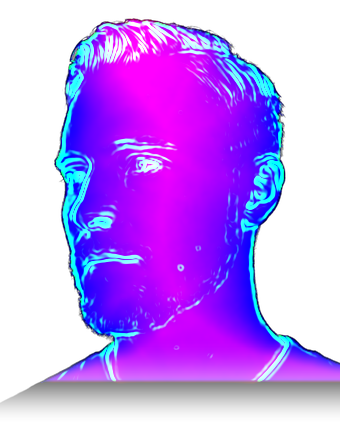
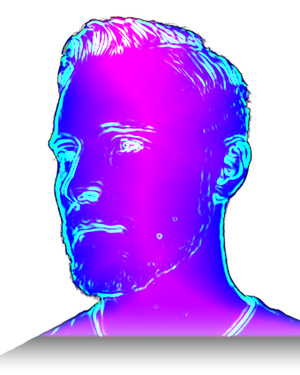
deploy: portfolio 2026 update
- Refined depth hero with improved point cloud
- Updated portrait depth map
- Polish pass on main page and Swedish page
- Updated build tooling and sitemap

diff --git a/index.html b/index.html
@@ -33,16 +33,8 @@
   document.documentElement.classList.remove('no-js');
   document.documentElement.classList.add('js');
 </script>
-<script type="application/ld+json">
-{
-  "@context":"https://schema.org",
-  "@graph":[
-    {"@type":"ProfilePage","@id":"https://antonsmedberg.github.io/#profile","url":"https://antonsmedberg.github.io/","name":"Anton Smedberg — iOS Developer","dateModified":"2026-08-20","mainEntity":{"@id":"https://antonsmedberg.github.io/#anton"}},
-    {"@type":"Person","@id":"https://antonsmedberg.github.io/#anton","name":"Anton Smedberg","givenName":"Anton","familyName":"Smedberg","jobTitle":"iOS Developer","url":"https://antonsmedberg.github.io/","email":"mailto:anton@smedberg.eu","image":"https://antonsmedberg.github.io/assets/img/portrait.png","address":{"@type":"PostalAddress","addressLocality":"Malmö","addressRegion":"Skåne","addressCountry":"SE"},"sameAs":["https://github.com/antonsmedberg","https://www.linkedin.com/in/anton-smedberg-a9aa6121b/"],"knowsLanguage":["Swedish","English"],"knowsAbout":["iOS development","Swift","SwiftUI","Swift Concurrency","UIKit","AVFoundation","Metal","ARKit","SwiftData","Swift Package Manager","XCTest","CI/CD","GitHub Actions","Datadog","OpenTelemetry"]}
-  ]
-}
-</script>
 <script type="module" src="/assets/js/main.js"></script>
+<script type="application/ld+json">{"@context":"https://schema.org","@type":"Person","name":"Anton Smedberg","jobTitle":"iOS Developer","url":"https://antonsmedberg.github.io/","image":"https://antonsmedberg.github.io/assets/img/og-image.png","sameAs":["https://github.com/antonsmedberg","https://www.linkedin.com/in/anton-smedberg-a9aa6121b/"],"address":{"@type":"PostalAddress","addressLocality":"Malmö","addressCountry":"SE"},"knowsLanguage":["sv","en"],"knowsAbout":["Swift","SwiftUI","Swift Concurrency","AVFoundation","Metal","ARKit","iOS development"],"alumniOf":{"@type":"EducationalOrganization","name":"Grit Academy"},"seeks":{"@type":"Demand","name":"iOS / mobile developer role"}}</script>
 </head>
 <body>
 <a class="skip-link" href="#main">Skip to content</a>

diff --git a/sv/index.html b/sv/index.html
@@ -21,6 +21,7 @@
   document.documentElement.classList.add('js');
 </script>
 <script type="module" src="/assets/js/main.js"></script>
+<script type="application/ld+json">{"@context":"https://schema.org","@type":"Person","name":"Anton Smedberg","jobTitle":"iOS Developer","url":"https://antonsmedberg.github.io/sv/","image":"https://antonsmedberg.github.io/assets/img/og-image.png","sameAs":["https://github.com/antonsmedberg","https://www.linkedin.com/in/anton-smedberg-a9aa6121b/"],"address":{"@type":"PostalAddress","addressLocality":"Malmö","addressCountry":"SE"},"knowsLanguage":["sv","en"],"knowsAbout":["Swift","SwiftUI","Swift Concurrency","AVFoundation","Metal","ARKit","iOS development"],"alumniOf":{"@type":"EducationalOrganization","name":"Grit Academy"},"seeks":{"@type":"Demand","name":"iOS / mobile developer role"}}</script>
 </head>
 <body>
 <a class="skip-link" href="#main">Hoppa till innehåll</a>

diff --git a/assets/js/depth-hero.js b/assets/js/depth-hero.js
@@ -281,7 +281,6 @@ function start() {
   gl.uniform1i(u('uDepth'), 0);
   gl.uniform1i(u('uPhoto'), 1);
 
-  // The portrait is already in cache from the <img>, so this costs no request.
   const photo = gl.createTexture();
   gl.activeTexture(gl.TEXTURE1);
   gl.bindTexture(gl.TEXTURE_2D, photo);
@@ -299,7 +298,11 @@ function start() {
     gl.texImage2D(gl.TEXTURE_2D, 0, gl.RGBA, gl.RGBA, gl.UNSIGNED_BYTE, photoImg);
     request();
   };
-  photoImg.src = '/assets/img/portrait.png';
+  // Match the <picture> media query exactly so this reuses the file the
+  // browser has already downloaded rather than pulling the 412 KB PNG.
+  photoImg.src = matchMedia('(max-width: 640px)').matches
+    ? '/assets/img/portrait@2x-small.webp'
+    : '/assets/img/portrait.webp';
   gl.activeTexture(gl.TEXTURE0);
 
   let onscreen = true;

diff --git a/tools/build-assets.py b/tools/build-assets.py
@@ -108,7 +108,7 @@ def build_portrait():
               + (" / portrait.png (560w fallback)" if suffix == "" else ""))
 
 
-def build_depth_map(portrait_rgba, out_path, width=340):
+def build_depth_map(portrait_rgba, out_path, width=300):
     """Bake a depth map for the point cloud.
 
     Luminance alone is not depth: dark hair is not far away and a bright collar

diff --git a/README.md b/README.md
@@ -1,151 +1,49 @@
 # antonsmedberg.github.io
 
-Portfolio and CV for **Anton Smedberg** — iOS developer, Malmö, Sweden.
-
-Static site. No framework, no build step, no third-party CDN. All content is in
-the HTML, so search engines, LinkedIn's link preview and anyone with JavaScript
-disabled see the full page.
-
-Live: <https://antonsmedberg.github.io/>
-
----
-
-## Design language — "instrument"
-
-Light, precise, high-contrast. The surface behaves like technical
-documentation: white panels, single-pixel rules, generous measure, and **one
-accent** (`--accent: #2f4bd8`) used for everything interactive and nothing else.
-
-The multi-hue depth ramp is deliberately confined to the one place it carries
-meaning — the depth reconstruction in the hero — so the interface around it
-stays quiet. On a light ground the ramp inverts: **contrast is the depth cue**,
-so far points sit pale (`#8c9cb2`) and near points sit ink (`#0c1426`), with a
-hue journey through indigo alongside.
-
-To change the whole look, edit the `:root` block at the top of
-`assets/css/style.css`. Nothing else hardcodes a colour.
-
-**Type:** Schibsted Grotesk (variable) carries both display and text — a Nordic
-grotesk with real character at headline sizes and a workable text cut, which
-keeps the family count to two. IBM Plex Mono handles data, labels and
-measurements. Self-hosted from `assets/fonts/`, 76 KB total, no request to
-Google and no GDPR question about hotlinking fonts from an EU site.
-
-## The hero — a LiDAR line scan
-
-One graphic does two jobs. Evenly spaced horizontal lines run across the frame.
-Where they cross the figure they bend upward in proportion to depth and describe
-the face; where they do not, they are perfectly straight and run to the edge.
-The same system that draws the portrait **is** the background, so nothing has to
-be blended into anything else — there is only one thing there.
-
-That is also literally what a depth sensor does: sweep a line across a surface
-and record where it bends.
-
-### Why this and not the earlier attempts
-
-- **A point cloud** rendered depth as thousands of discrete samples. However
-  carefully density, size and alpha were tuned, that reads as noise — because it
-  *is* noise, sampled off a surface.
-- **Iso-depth contours** were smooth, but they sat as a separate object on top
-  of a separate grid, and the grid read as graph paper.
-
-The line scan removes the grid entirely, because the flat parts of the lines are
-the background.
-
-### Occlusion is what makes it read as solid
-
-Each line carries a fill in the page colour running to the bottom of the frame,
-and lines are drawn far-to-near — top row first. Nearer ridges therefore hide
-the tails of the ones behind them. Without that step the same paths read as a
-wire mesh rather than a form.
-
-Two consequences worth knowing:
-
-- The fills are the page colour, so they are invisible against the background
-  **but they still cover anything underneath them.** `.identity-scene` carries
-  `overflow: hidden` so the scan can never reach the headline column. Removing
-  that clip greys out the hero copy.
-- If you change `--bg`, change `--scan-fill` with it.
-
-### The field
-
-`tools/build-assets.py` weights the height field toward **shading detail**, not
-silhouette volume. With the volume term dominant, the relief comes out as a
-smooth hill; the brow, nose and jaw only appear when the detail band leads. The
-depth map used elsewhere (`portrait-depth.png`) is weighted the other way, which
-is why two weightings exist.
-
-The field is then feathered to zero across the silhouette, so lines rejoin the
-flat background without a step.
-
-### Depth ordering
-
-| Layer                     | `--depth` | What it is                     |
-|---------------------------|-----------|--------------------------------|
-| `.identity-bg`            | −6        | ambient colour, mixed in oklch |
-| `.identity-scan`          | −2        | the line scan                  |
-| `.identity-portrait-wrap` | +3        | the photograph                 |
-
-`main.js` writes `--px` / `--py` (pointer) and `--sy` (scroll) onto the stage;
-each layer multiplies those by its own depth. The scan and the photograph
-separating under the pointer is where the 2.5D comes from — no canvas, no
-per-frame work, 61 fps.
-
-## Other things that carry information
-
-- **The hairline under the header** is a reading-progress meter, not decoration.
-- **Toolkit glyphs** are custom, drawn on one 24px grid with a 1.4 stroke and
-  square joints, rather than a borrowed icon set.
-- **Shape carries meaning.** Every data chip — `.tech`, `.skill-pill`,
-  `.status`, `.identity-chip` — shares a 7px radius. The pill shape is reserved
-  for `.hero__eyebrow`, the one element reporting live state.
-- **Link marks match their destination.** External links carry the out-arrow
-  and it travels up and right on hover; internal links carry a plain arrow that
-  travels sideways.
-- **Every raised surface has a one-pixel light edge** along its top. At this
-  contrast level that is what separates a panel from a rectangle.
-- **The nav pill** slides and resizes between items; `main.js` writes `--x` and
-  `--w` and the element does the rest.
-- **The first project card** spans the full grid because MetalVisualKit is the
-  one fully public, installable artefact. The hierarchy encodes verifiability.
-- **Capture brackets** on the hero and on every screenshot use the same reticle
-  language, so a screenshot reads as something captured rather than framed.
-- **Film grain** is generated from an inline `feTurbulence`, so it costs one
-  data URI and no request, and it keeps large flat areas from banding.
+Portfolio for Anton Smedberg — iOS developer, Malmö.
+Static site, no build step, deployed straight from `main` by GitHub Pages.
 
 ## Structure
 
 ```
-index.html            Home — hero, proof strip, work, experience, skills, about, contact
-cv.html               Full CV in HTML, printable, with PDF download
-sv/                   Swedish versions of both
-work/                 Four case-study pages + screenshots
-404.html              Not-found page
-
-assets/css/style.css  All styling. Tokens at the top.
-assets/fonts/         Self-hosted woff2
-assets/js/main.js     Progressive enhancement — nav state, parallax, reveals
-assets/img/face-scan.svg   LiDAR line scan of the portrait (generated)
-assets/img/           Portrait, favicon, social card
-tools/build-assets.py Regenerates the portrait cut-out and screenshots
-tools/source/         Original photo + cached cut-out (not served)
+index.html              English homepage
+sv/index.html           Swedish homepage (full parity)
+work/*.html             Case studies
+404.html                Not-found page
+assets/css/style.css    Design tokens + all components (single layer, no overrides)
+assets/css/case-study.css
+assets/js/main.js       Reveal, scroll spy, nav sheet, CV modal, header state
+assets/js/depth-hero.js Raw-WebGL point cloud (no framework)
+assets/img/             Portrait, depth map, icons, OG image
+assets/fonts/           Self-hosted woff2 (Schibsted Grotesk, IBM Plex Mono)
+assets/cv/              CV PDFs (EN + SV)
+tools/build-assets.py   Regenerates portrait derivatives + depth map
 ```
 
-## Regenerating images
+## The hero
+
+`portrait-depth.png` is an RGBA map, one channel per job:
+
+| channel | meaning                                        |
+|---------|------------------------------------------------|
+| R       | depth                                          |
+| G       | facial detail (band-passed edge response)      |
+| B       | silhouette proximity                           |
+| A       | portrait alpha                                 |
+
+`depth-hero.js` uses G to decide where to spend points — dense and fine on
+eyelids, lips and jaw; sparse and coarse on flat skin — and samples the
+portrait itself for per-point colour.
+
+**If you replace the portrait, regenerate the map:**
 
 ```bash
-pip install pillow
+pip install pillow numpy scipy rembg
 python3 tools/build-assets.py
 ```
 
-It reuses `tools/source/portrait-cutout-cache.png`, so `rembg` is only needed
-if you replace the source photograph — delete the cache file and install
-`rembg[cpu]` to redo the background removal.
-
-The script prints the correct `width`/`height` attributes for each screenshot.
-**Use them.** Declaring a 16:9 size on a portrait phone capture is what caused
-the stretched screenshots and the layout shift in the previous version.
+The detail channel is baked per image. A new photo against the old map will
+look wrong.
 
 ## Local preview
 
@@ -153,40 +51,12 @@ the stretched screenshots and the layout shift in the previous version.
 python3 -m http.server 8000
 ```
 
-Paths are root-relative, so opening `index.html` from the filesystem will not
-load the CSS.
+## Notes
 
-## Quality floor
-
-Verified across 9 pages at 7 viewports (320 → 1920):
-
-- no horizontal overflow anywhere
-- no console or JavaScript errors
-- every class in the markup has a matching CSS rule
-- no broken internal links
-- every `<use href="#icon">` resolves to a symbol present on that page
-- content renders with JavaScript disabled — reveal animations are gated behind
-  a `.js` class added at runtime
-
-### Frame budget
-
-Three things were measured and fixed rather than assumed:
-
-| Change | Gain |
-|---|---|
-| Replaced the canvas point cloud with static contour SVGs | +27 fps |
-| Dropped a `scale` animation on a masked layer | +27 fps |
-| Removed the `mix-blend-mode` film grain (earlier pass) | +12 fps |
-
-Two of those are the same lesson: anything that animates a layer carrying a
-mask or a blend forces that layer to re-rasterise every frame. The parallax
-already supplies motion, so both animations were cost without benefit.
-
-Currently **61 fps** in software-rendered headless — i.e. no measurable cost.
-- `prefers-reduced-motion` disables parallax, the canvas and all transitions
-- skip link, visible focus rings, landmark elements, labelled icon buttons
-- `cv.html` has a print stylesheet
-
-## Licence
-
-Code is free to reuse. Written content, CV and photographs are not.
+- No dependencies, no bundler, no CDN. Everything is self-hosted.
+- `.png` copies of images exist only as `<picture>` fallbacks; WebP-capable
+  browsers never fetch them.
+- Colours come from the magma colormap (the depth-visualisation standard).
+  All tokens live at the top of `style.css`.
+- Motion respects `prefers-reduced-motion`; the point cloud falls back to a
+  plain portrait when WebGL is unavailable.
